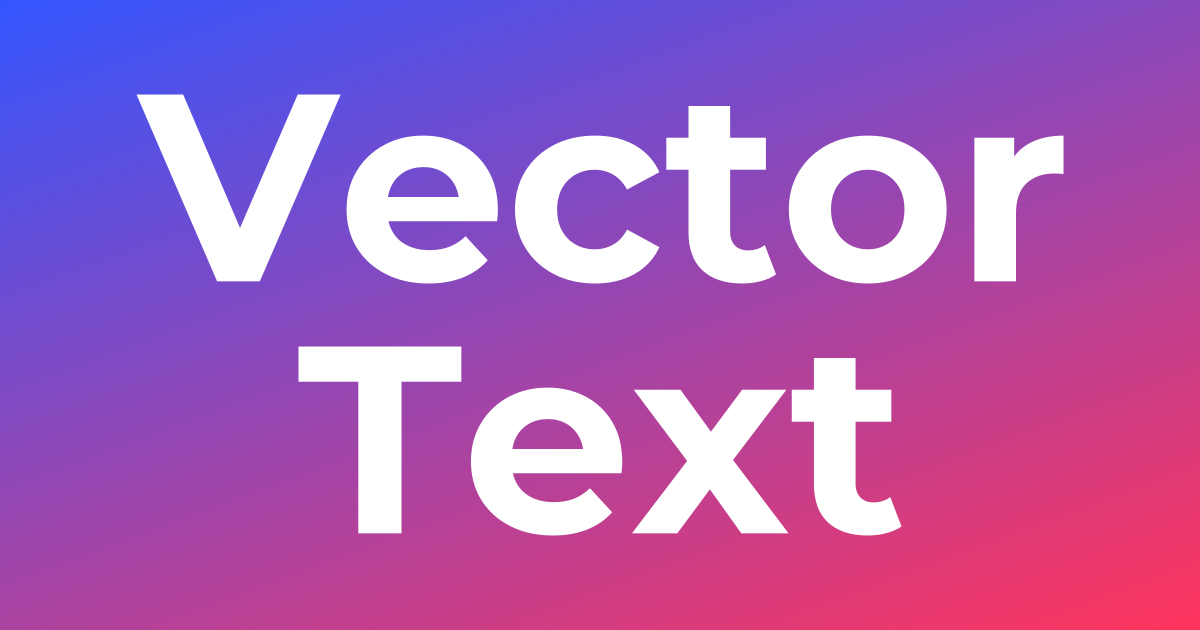
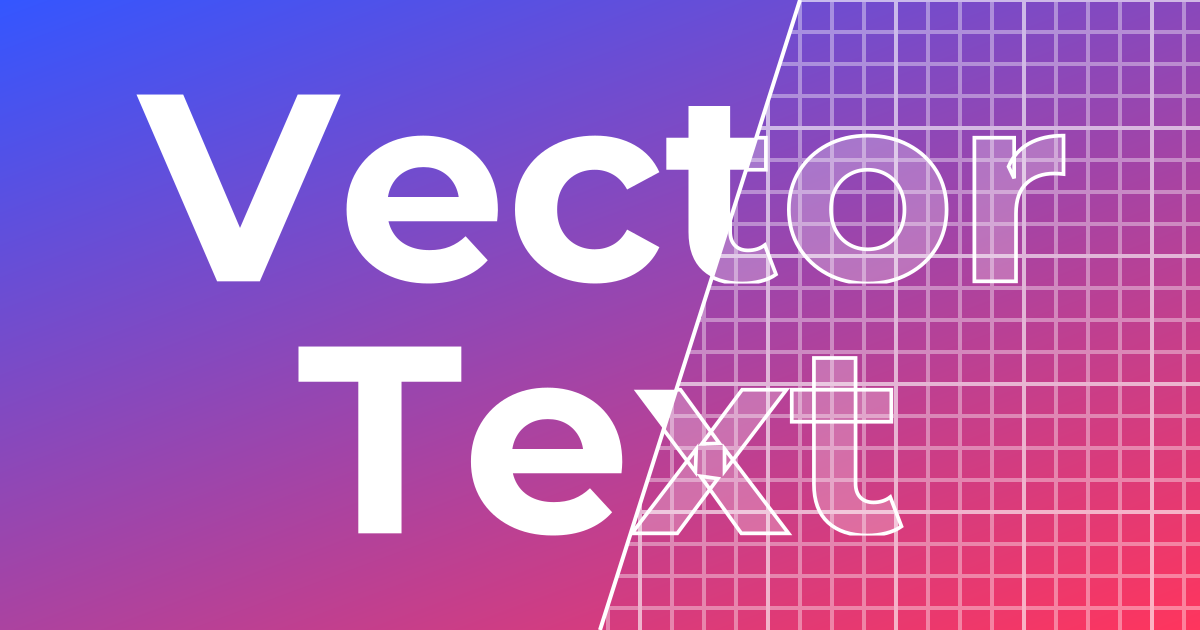
Update card image and add it to README

Changed region(s): [[0.4933, 0.0, 1.0, 1.0]]

diff --git a/index.html b/index.html
@@ -20,7 +20,7 @@
         <meta property="og:title" content="Vector Text: Convert Text to an SVG">
         <meta property="og:description" content="Convert text to SVG paths for reliable rendering across all platforms and tools.">
         <meta property="og:image" content="https://vector-text.com/images/card.png">
-        <meta property="og:image:alt" content="Vector Text: Convert Text to an SVG">
+        <meta property="og:image:alt" content="Bold white text reading 'Vector Text' on a blue-to-pink gradient background, with the right half cut away to reveal an outlined, grid-based vector version beneath.">
         <meta property="og:url" content="https://vector-text.com">
 
         <!-- Twitter / X -->
@@ -28,7 +28,7 @@
         <meta property="twitter:title" content="Vector Text: Convert Text to an SVG">
         <meta property="twitter:description" content="Convert text to SVG paths for reliable rendering across all platforms and tools.">
         <meta property="twitter:image" content="https://vector-text.com/images/card.png">
-        <meta property="twitter:image:alt" content="Vector Text: Convert Text to an SVG">
+        <meta property="twitter:image:alt" content="Bold white text reading 'Vector Text' on a blue-to-pink gradient background, with the right half cut away to reveal an outlined, grid-based vector version beneath.">
     </head>
     <body>
         <header>

diff --git a/README.md b/README.md
@@ -8,6 +8,8 @@ What Vector Text does is take the text and font selection and converts that text
 
 You can check out Vector Text at [vector-text.com](https://vector-text.com).
 
+![Bold white text reading 'Vector Text' on a blue-to-pink gradient background, with the right half cut away to reveal an outlined, grid-based vector version beneath.](/images/card.png)
+
 ## Reporting Issues
 
 If you've found an issue, you can report it by going to the Issues tab on this page and clicking "New Issue". Select "Bug/Issue Report" and fill out the form. Make sure to include lots of detail so that we can find the issue and fix it.
